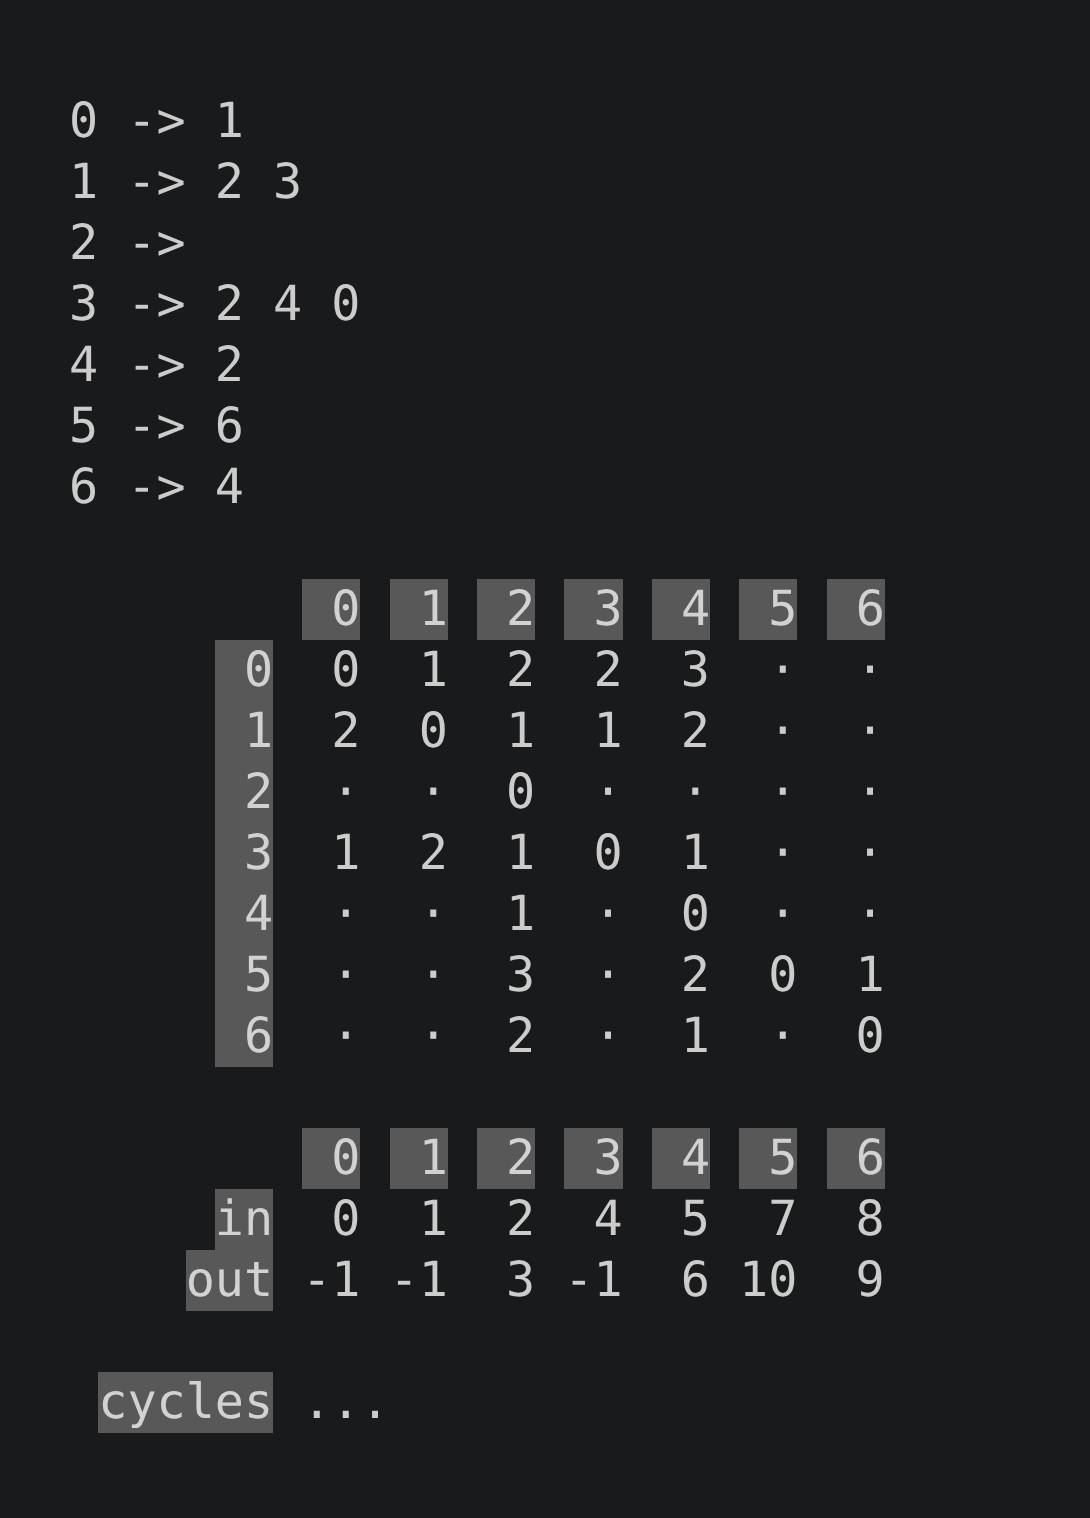
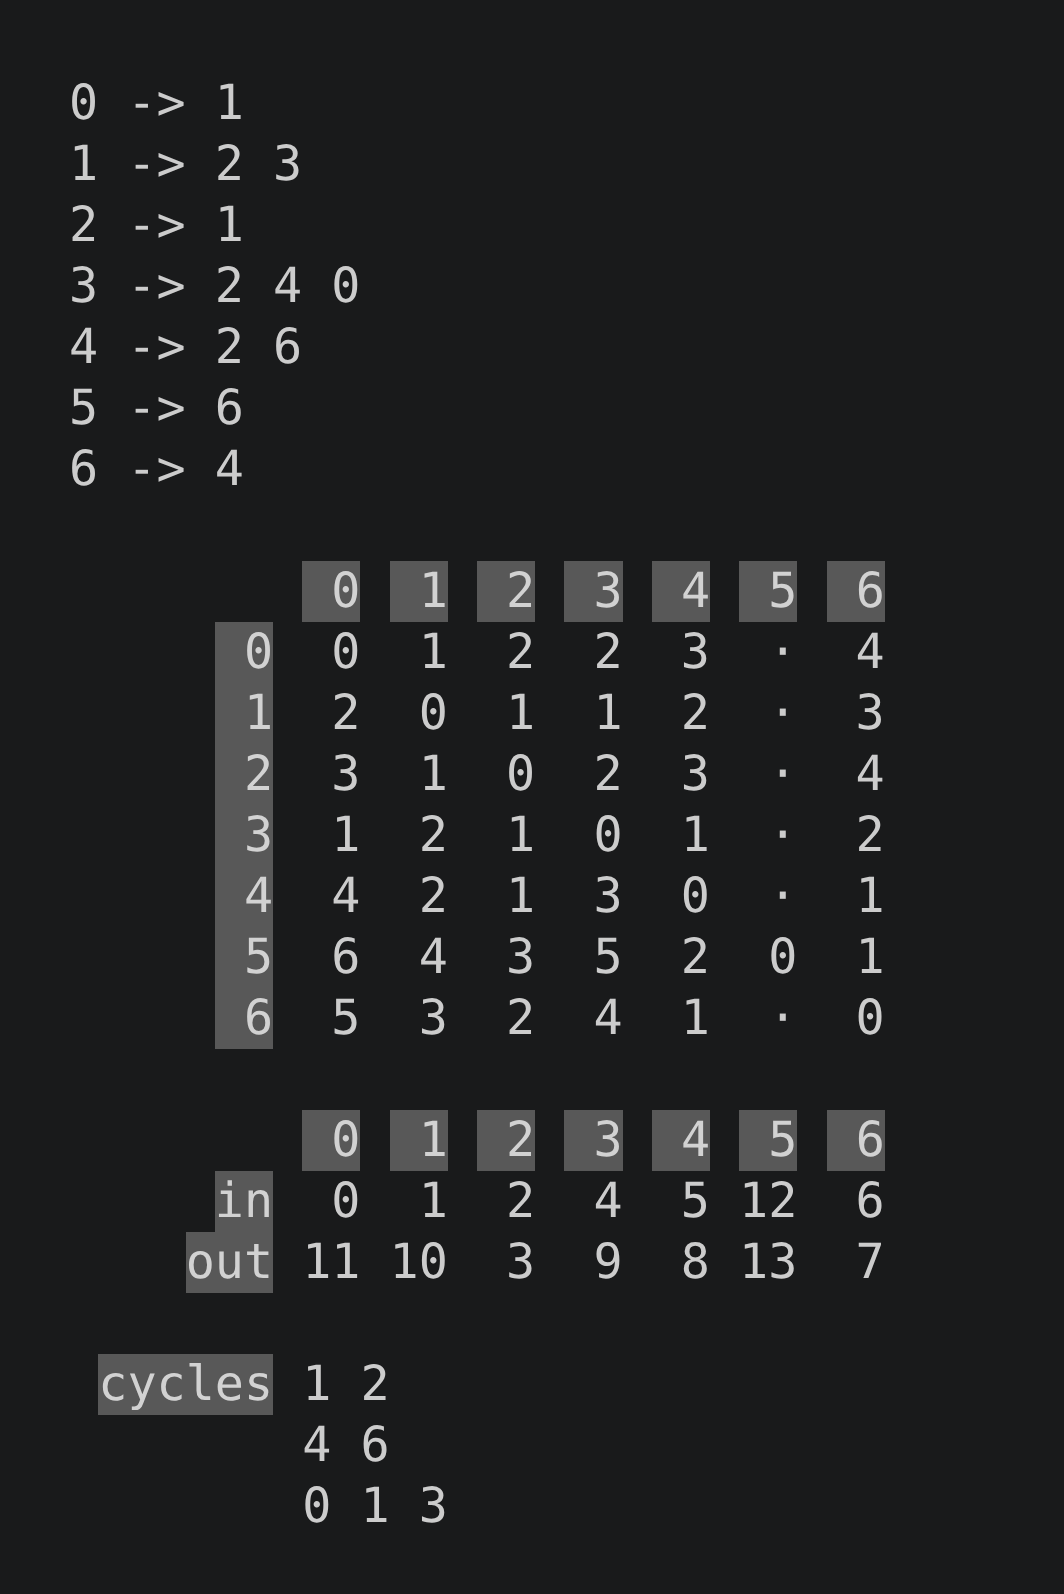
cycles

diff --git a/graph/graph/graph.cpp b/graph/graph/graph.cpp
@@ -22,6 +22,8 @@ void Graph::demo() {
 void Graph::demo_cyclic() {
     demo();
     add_e(3, 0);
+    add_e(2, 1);
+    add_e(4, 6);
 }
 
 
@@ -50,34 +52,31 @@ void Graph::bfs(T_bfs& T) {
 }
 
 
-bool Graph::topsort_(T_topsort& T, int v) {
+void Graph::topsort_(T_topsort& T, int v) {
     T.in[v] = T.timer++;
     for (int vv : adj[v])
         if (T.in[vv] == T.t0) {
-            // Еще не посещали vv
-            if (!topsort_(T, vv))
-                return false;
+            T.parent[vv] = v;
+            topsort_(T, vv);
         }
-        else {
-            // Посетили и не обработали vv => есть путь vv -> v
-            if (T.out[vv] == T.t0)
-                return false;
-                // TODO: Сохранять путь цикла, продолжать обход
+        else if (T.out[vv] == T.t0) {
+            vector<int> cycle;
+            for (int u = v; u != vv; u = T.parent[u])
+                cycle.push_back(u);
+            cycle.push_back(vv);
+            for (int i = 0; i < cycle.size() / 2; ++i)
+                swap(cycle[i], cycle[cycle.size() - 1 - i]);
+            T.cycles.push_back(cycle);
         }
-    // Все vv обработаны => выполнять v уже можно.
-    //  v требуется выполнять первее u, положенного в stack ранее.
-    //   [ .. u v .. ] <- topsort
-    T.topsort.push(v);
     T.out[v] = T.timer++;
-    return true;
+    T.topsort.push(v);
 }
 
 void Graph::topsort(T_topsort& T) {
     T.reset(v_num());
     for (int v = 0; v < v_num(); ++v)
         if (T.in[v] == T.t0)
-            if (!topsort_(T, v))
-                T.cycle = true;
+            topsort_(T, v);
 }
 
 

diff --git a/graph/traversal/traversal.cpp b/graph/traversal/traversal.cpp
@@ -22,11 +22,12 @@ void T_bfs::reset(const int v_num, const int v) {
 // Traversal for Topological Sort
 
 void T_topsort::reset(const int v_num) {
+    cycles.clear();
     in.assign(v_num, t0);
     out.assign(v_num, t0);
+    parent.assign(v_num, t0);
     topsort = stack<int>();
     timer = 0;
-    cycle = false;
 }
 
 
@@ -94,7 +95,7 @@ ostream& operator<<(ostream& os, const T_bfs& t) {
 ostream& operator<<(ostream& os, const T_topsort& t) {
     const int w  = max(2, (int)to_string(2 * t.in.size()).size());
 
-    os << string(LW + 1, ' ');
+    os << spaces(LW + 1);
     for (int i = 0; i < t.in.size(); ++i)
         os << cell(i, w) << ' ';
 
@@ -108,14 +109,15 @@ ostream& operator<<(ostream& os, const T_topsort& t) {
 
     os << "\n\n";
 
-    if (t.cycle) {
-        os << spaces(LW - 6) << grey("cycles") << ' ';
-
-        // TODO: Печатать циклы из вектора t.cycle
-        os << "... \n";
-    }
-    else {
+    if (t.cycles.empty())
         os << spaces(LW - 7) << grey("topsort") << ' ' << t.topsort;
+    else {
+        os << spaces(LW - 6) << grey("cycles") << ' ';
+        for (vector<int> cycle : t.cycles) {
+            for (int v : cycle)
+                os << v << ' ';
+            os << '\n' << spaces(LW + 1);
+        }
     }
 
     return os << '\n';

diff --git a/graph/traversal/traversal.hpp b/graph/traversal/traversal.hpp
@@ -10,29 +10,22 @@ using namespace std;
 
 
 // Traversal for BFS
-struct T_bfs
-{
-    vector<vector<int>> dist;
-    queue<int>          q;
-    
-    static constexpr int dist0 = -1;
-
+struct T_bfs {
+    static constexpr int dist0 = -1;  // dist
+    vector<vector<int>>  dist;
+    queue<int>           q;
     void reset(const int v_num);
     void reset(const int v_num, const int v);
 };
 
 
 // Traversal for Topological Sort
-struct T_topsort
-{
-    vector<int> in, out;
-    stack<int>  topsort;
-    int         timer;
-    bool        cycle;  // TODO: vector<vector>
-    
-    // in, out default value
-    static constexpr int t0 = -1;
-
+struct T_topsort {
+    static constexpr int t0 = -1;  // in, out
+    vector<vector<int>>  cycles;
+    vector<int>          in, out, parent;
+    stack<int>           topsort;
+    int                  timer;
     void reset(const int v_num);
 };
 

diff --git a/graph/main.cpp b/graph/main.cpp
@@ -14,12 +14,12 @@ int main()
     g.topsort(t_top);
     cout << t_top << "\n\n";
 
-    gg.demo_cyclic();
-    cout << gg << "\n";
-    gg.bfs(t_bfs);
-    cout << t_bfs << "\n";
-    gg.topsort(t_top);
-    cout << t_top << "\n\n";
+    // gg.demo_cyclic();
+    // cout << gg << "\n";
+    // gg.bfs(t_bfs);
+    // cout << t_bfs << "\n";
+    // gg.topsort(t_top);
+    // cout << t_top << "\n\n";
 
     return 0;
 }

diff --git a/graph/graph/graph.hpp b/graph/graph/graph.hpp
@@ -13,7 +13,7 @@ class Graph
     private:
 
         vector<vector<int>> adj_;
-        bool topsort_(T_topsort& T, int v);
+        void topsort_(T_topsort& T, int v);
 
     public:
 

diff --git a/graph/readme.md b/graph/readme.md
@@ -13,7 +13,7 @@
 
 - [x] topsort: topsort
 - [x] topsort: in + out
-- [ ] topsort: cycles
+- [x] topsort: cycles
 - [x] bfs: dist
 - [ ] Взвешенный граф
 - [ ] Алгоритм Прима (мин. остовное дерево)
